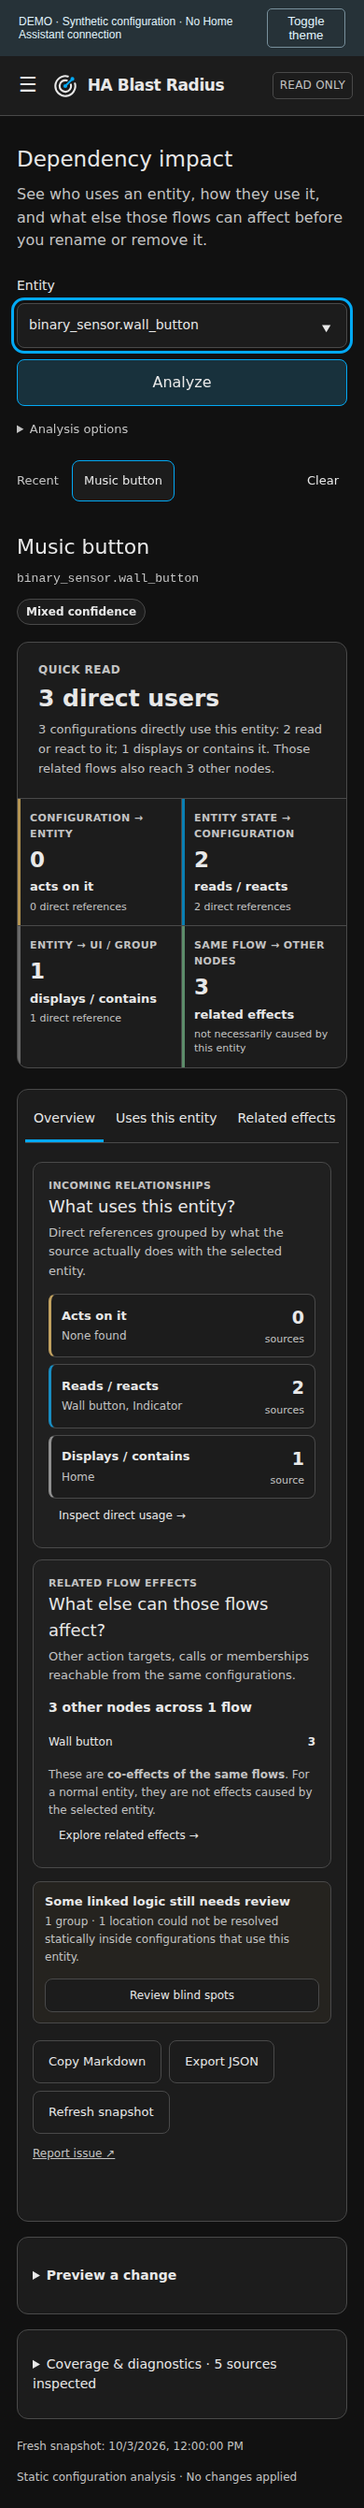
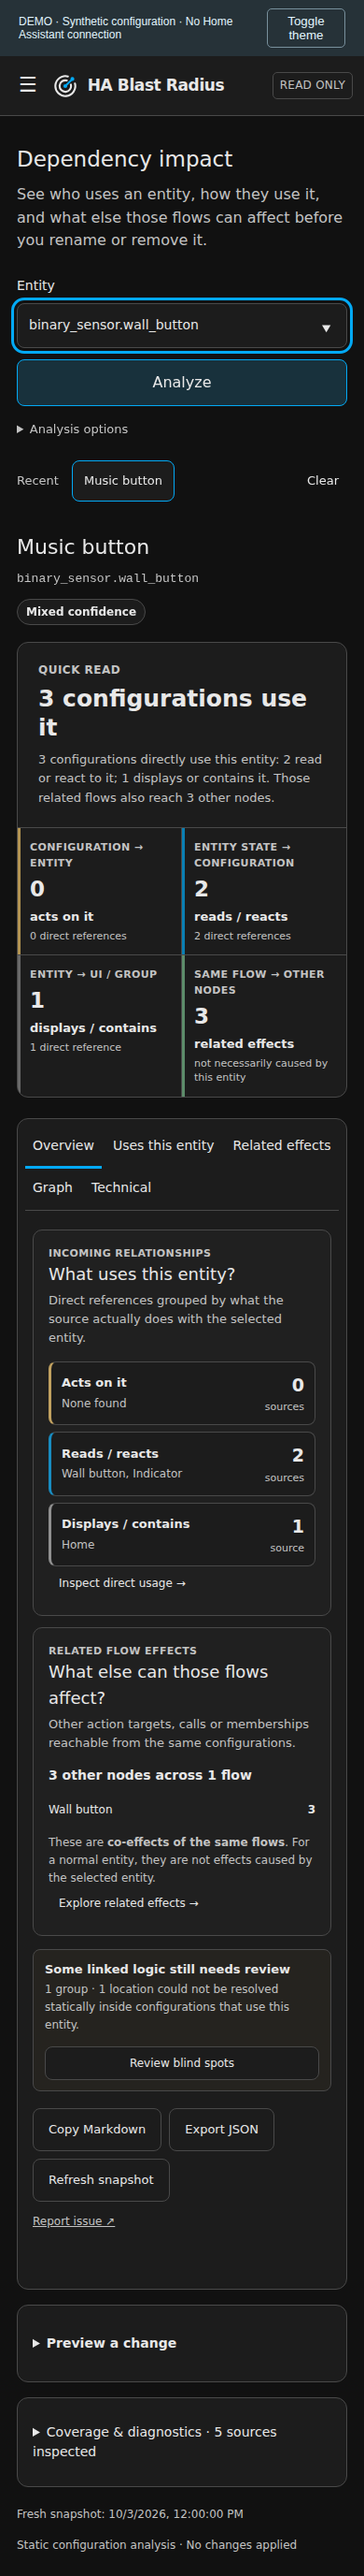
chore: finalize relationship UI [ui-finalize]

Changed region(s): [[0.0308, 0.0, 0.9538, 0.8668], [0.0308, 0.8978, 0.7692, 0.9907], [0.7692, 0.9597, 0.8, 0.9907]]

diff --git a/custom_components/blast_radius/frontend/blast-radius.js b/custom_components/blast_radius/frontend/blast-radius.js
@@ -2083,8 +2083,13 @@ var Ae = {
     .card {
       padding: 16px;
     }
+    nav {
+      flex-wrap: wrap;
+      overflow-x: visible;
+      gap: 0 4px;
+    }
     nav button {
-      padding: 12px 9px;
+      padding: 10px 8px;
     }
     .path {
       align-items: start;
@@ -2426,7 +2431,7 @@ function ft(e, t) {
 }
 //#endregion
 //#region package.json
-var pt = "0.2.4";
+var pt = "0.2.5";
 //#endregion
 //#region src/review.ts
 function Q(e) {
@@ -2896,7 +2901,7 @@ var _t = {
       <div class="impact-verdict">
         <span class="eyebrow">Quick read</span>
         <strong>
-          ${t.totalSources ? `${t.totalSources} direct ${t.totalSources === 1 ? "user" : "users"}` : "No direct users"}
+          ${t.totalSources ? `${t.totalSources} ${t.totalSources === 1 ? "configuration uses it" : "configurations use it"}` : "No direct usage"}
         </strong>
         <p>${this.quickRead(e)}</p>
       </div>
